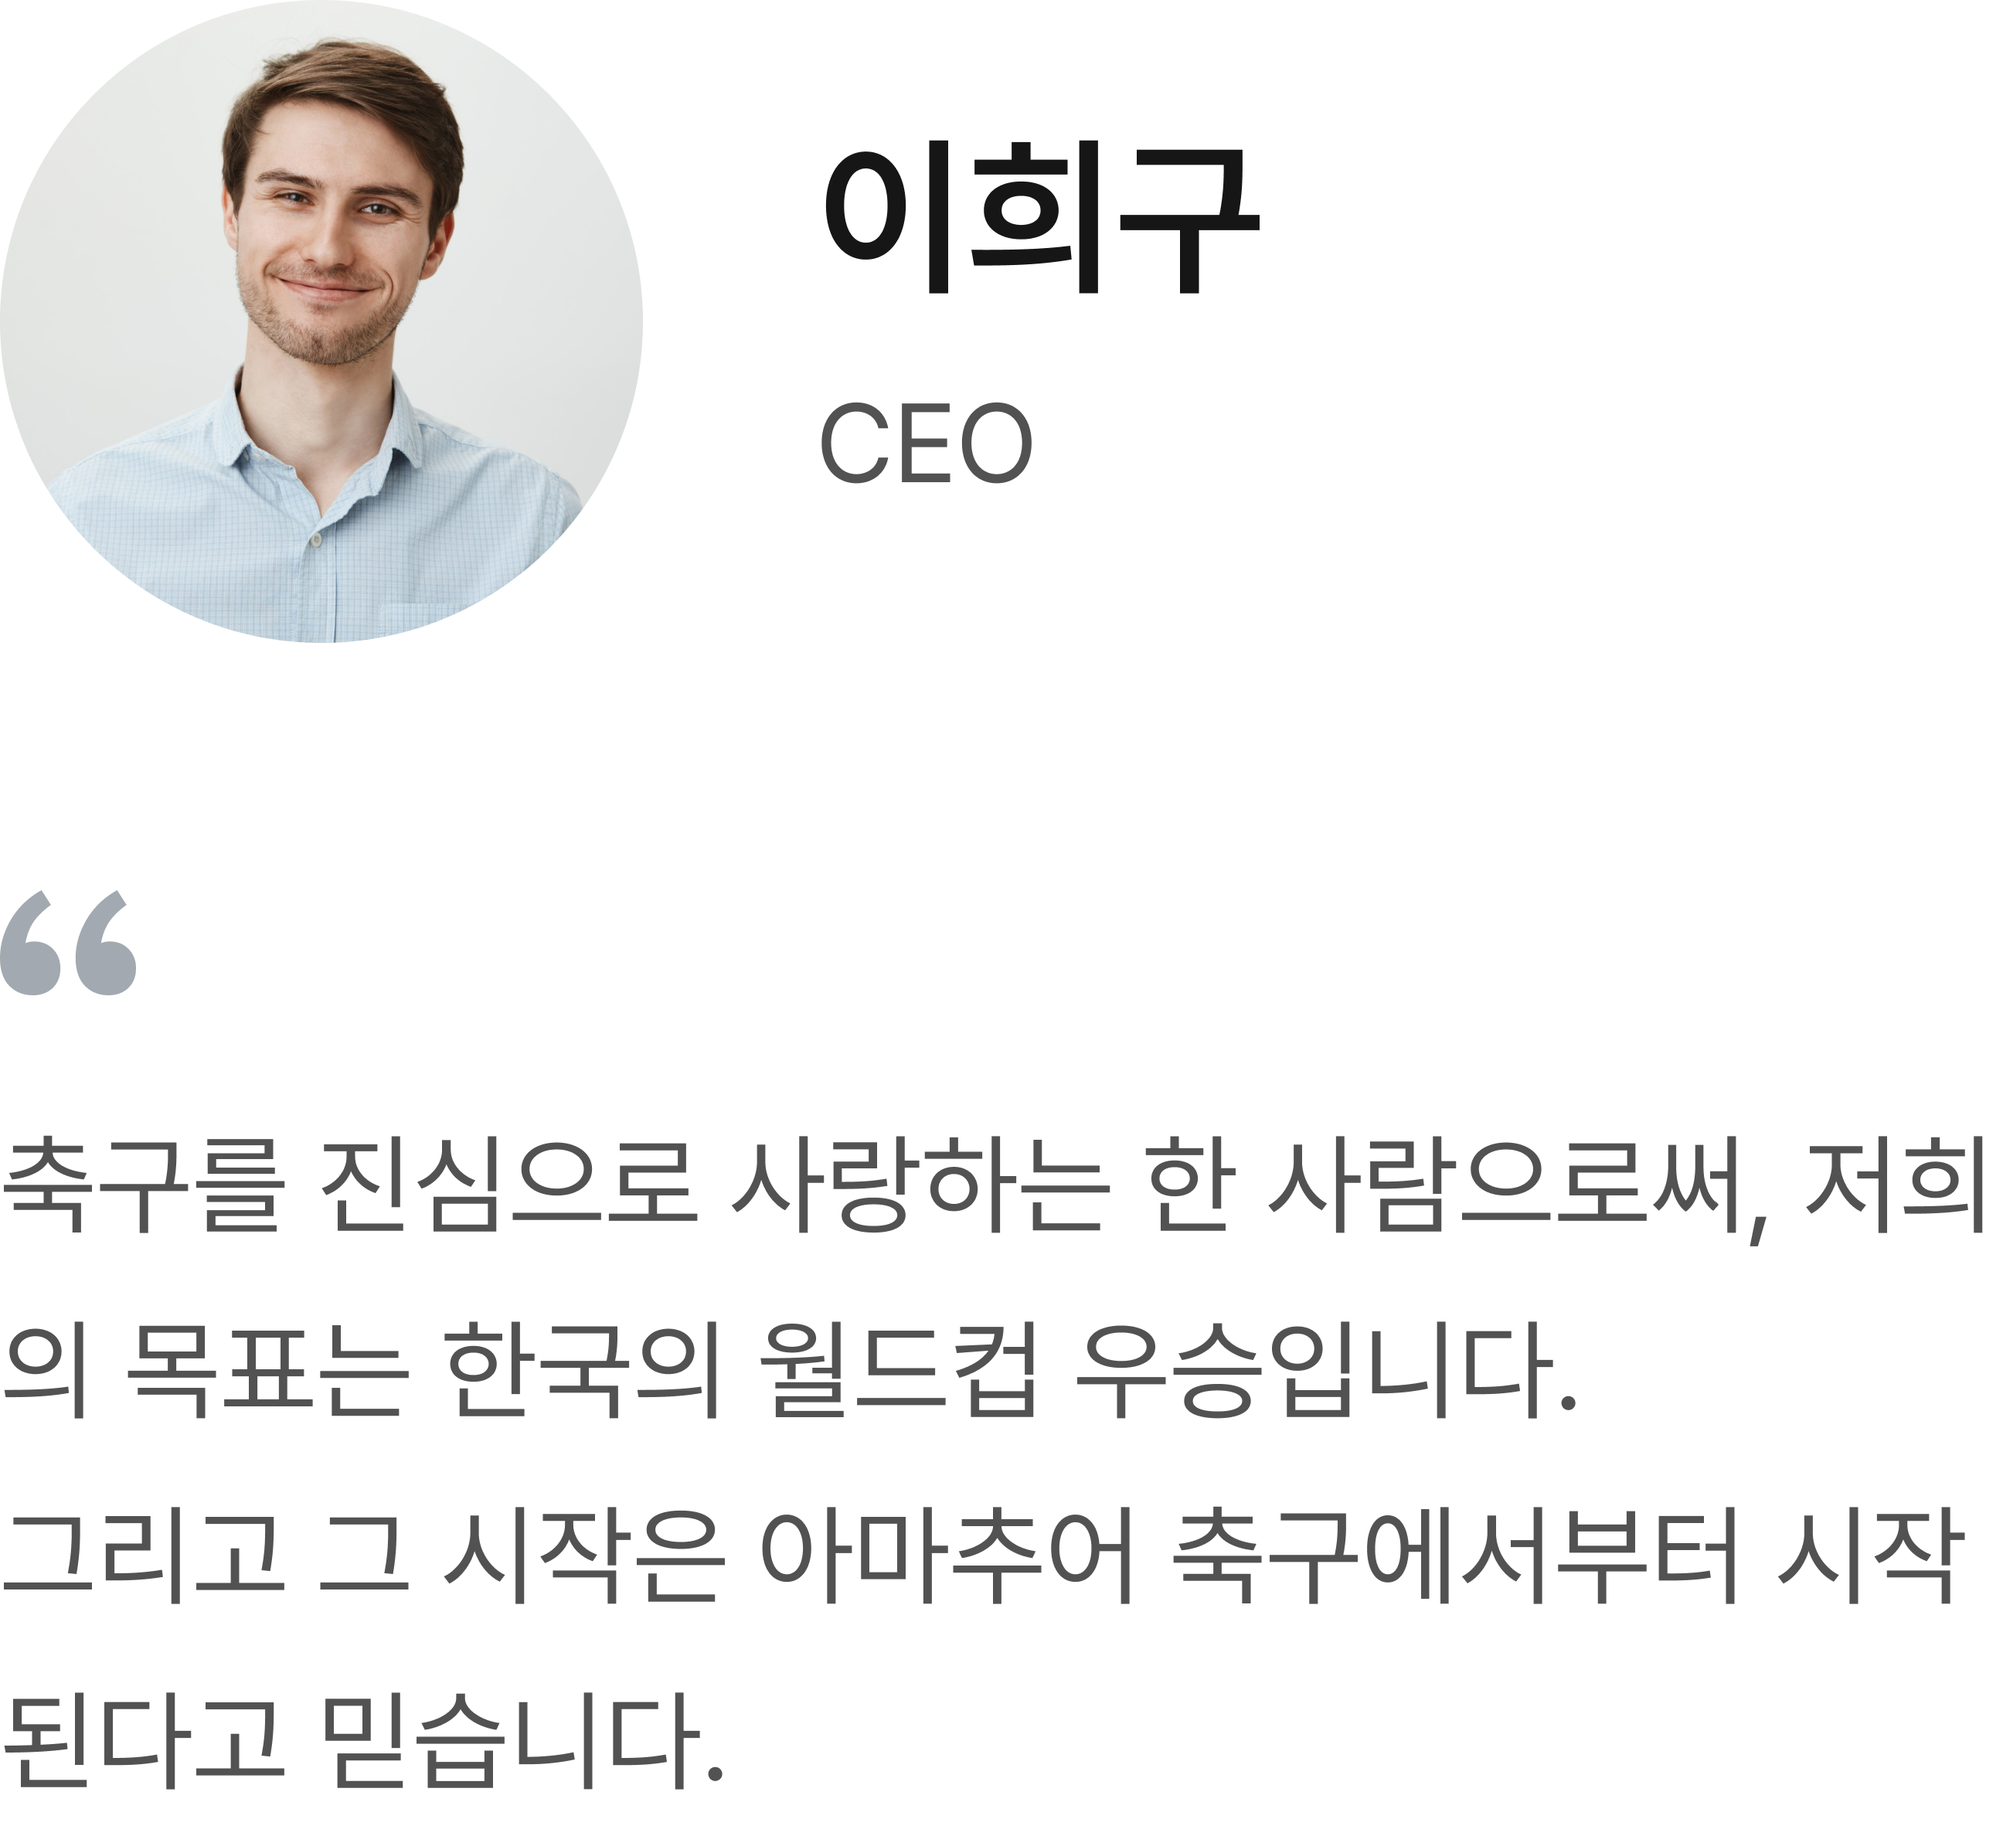
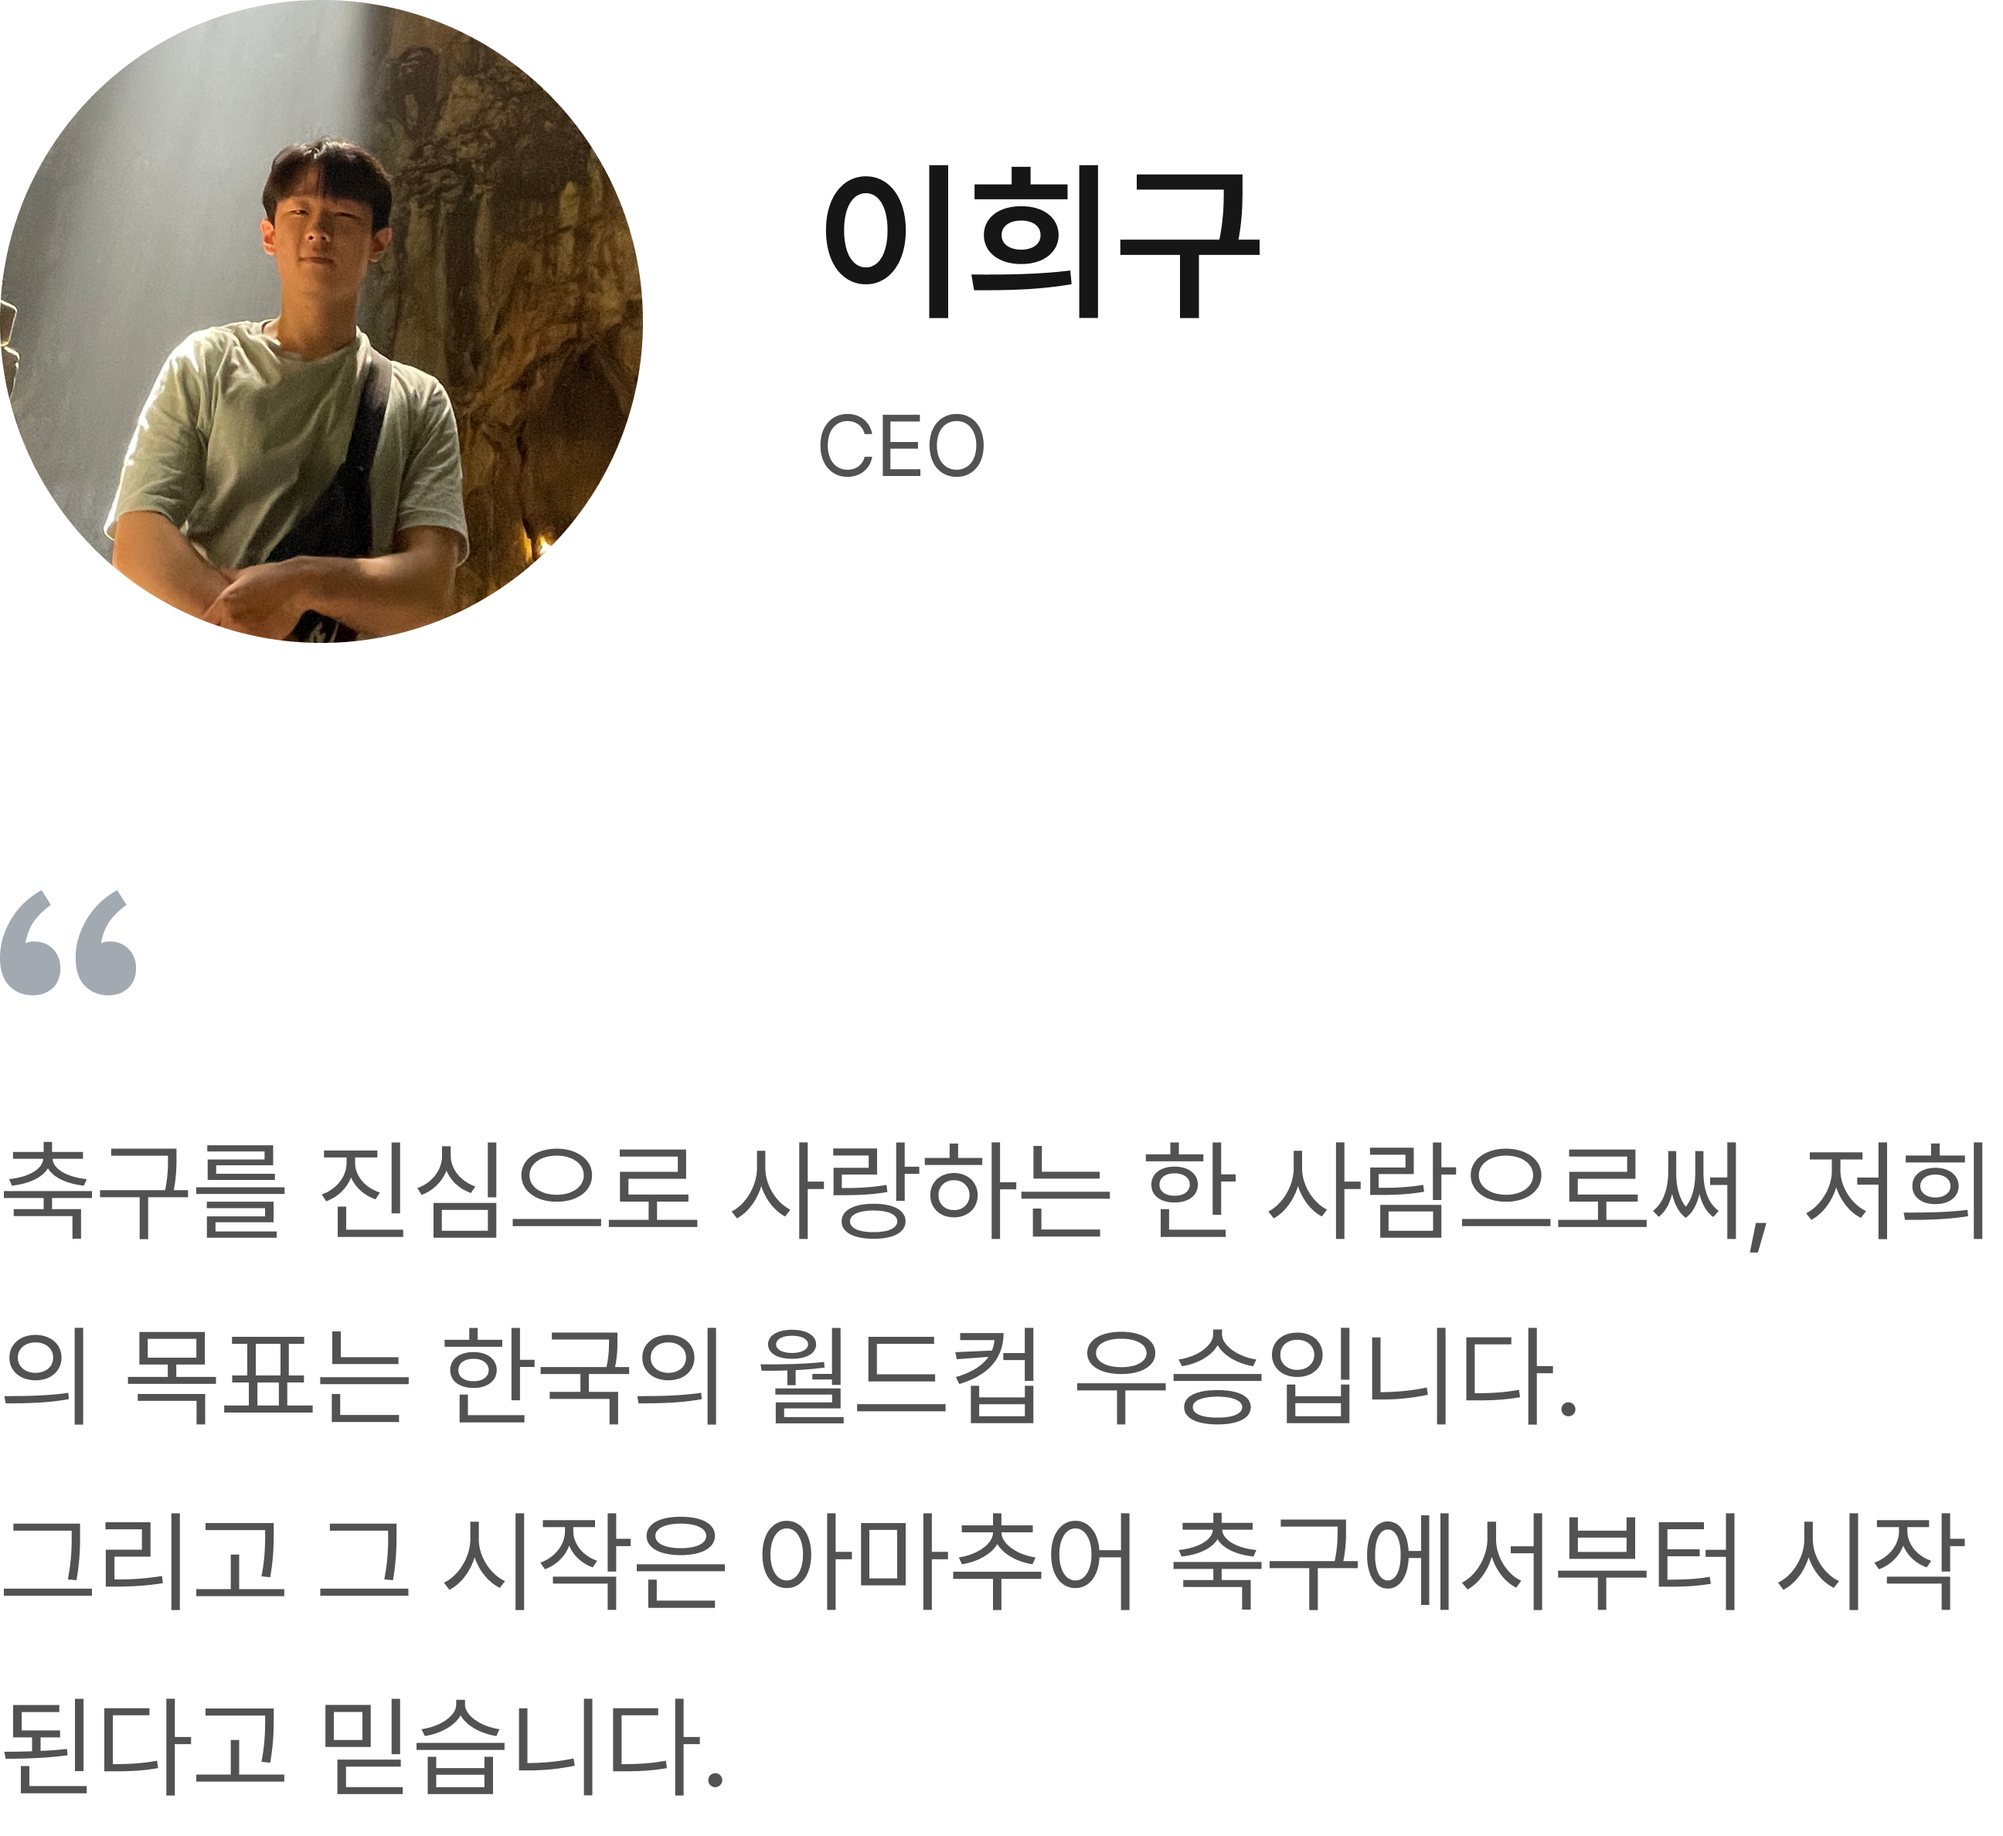
웹페이지 이미지 변경

diff --git a/frontend/agrounds_release/src/components/web/Main.js b/frontend/agrounds_release/src/components/web/Main.js
@@ -2,6 +2,9 @@ import React, {useEffect, useRef, useState} from 'react';
 import section1 from '../../assets/web/section1.png';
 import styled from 'styled-components';
 import section2 from '../../assets/web/section2.png';
+import section3 from '../../assets/web/section3.png';
+import section4 from '../../assets/web/section4.png';
+import section5 from '../../assets/web/section5.png';
 import section7 from '../../assets/web/section7.png';
 import dashjs from 'dashjs';
 
@@ -64,7 +67,7 @@ const Main = () => {
     return (
       <MainStyle>
       <Section1>
-        <div>누구나 이용할 수 있는 제품 <br/>아마추어를 위한 쉽고 합리적인 <br/>제품을 통해 모든 아마추어 선수들의 <br/>성장을 응원하고 돕습니다.</div>
+        <div style={{lineHeight:'2'}}>누구나 이용할 수 있는 제품 <br/>아마추어를 위한 쉽고 합리적인 <br/>제품을 통해 모든 아마추어 선수들의 <br/>성장을 응원하고 돕습니다.</div>
         <img src={section1} />
       </Section1>
       <Section2>
@@ -82,7 +85,7 @@ const Main = () => {
           <p className='contents2'>이후, AI 기술을 활용하여 이 정보를 한층 더 정교하게 요약하고 시각화하여,<br/> 누구나 쉽게 이해하고 활용할 수 있도록 제공합니다. <br/>데이터의 전문성과 소비자의 접근성을 동시에 만족시키는 <br/>혁신적인 분석 솔루션입니다.
           </p>
         </div>
-        <img src={section2} />
+        <img src={section3} />
       </Section3>
       <Section4>
         <div className='info-box'>
@@ -90,7 +93,7 @@ const Main = () => {
           <div className='contents'>무선 충전 기술을 적용해 비와 땀으로부터 안전한 설계를 구현했습니다. <br/>또한 블루투스 연결을 통해 경기 종료 후 데이터를 손쉽게 <br/>전송할 수 있도록 하여 편리함과 실용성을 동시에 제공하고 있습니다.
           </div>
         </div>
-        <img src={section2} />
+        <img src={section4} />
       </Section4>
       <Section5>
         <div className='info-box'>
@@ -99,7 +102,7 @@ const Main = () => {
           <p className='contents2'>이후, AI 기술을 활용하여 이 정보를 한층 더 정교하게 요약하고 시각화하여,<br/> 누구나 쉽게 이해하고 활용할 수 있도록 제공합니다. <br/>데이터의 전문성과 소비자의 접근성을 동시에 만족시키는 <br/>혁신적인 분석 솔루션입니다.
           </p>
         </div>
-        <img src={section2} />
+        <img src={section5} />
       </Section5>
       <Section6M>
         <div className='contents-box'>
@@ -164,10 +167,10 @@ const Main = () => {
           <p className='contents2'>이후, AI 기술을 활용하여 이 정보를 한층 더 정교하게 요약하고 시각화하여,<br/> 누구나 쉽게 이해하고 활용할 수 있도록 제공합니다. <br/>데이터의 전문성과 소비자의 접근성을 동시에 만족시키는 <br/>혁신적인 분석 솔루션입니다.
           </p>
         </div>
-        <img src={section2} />
+        <img src={section3} />
       </Section3>
       <Section4>
-        <img src={section2} />
+        <img src={section4} />
         <div className='info-box'>
           <div className='title'>GPS 기기</div>
           <div className='contents'>무선 충전 기술을 적용해 비와 땀으로부터 안전한 설계를 구현했습니다. <br/>또한 블루투스 연결을 통해 경기 종료 후 데이터를 손쉽게 <br/>전송할 수 있도록 하여 편리함과 실용성을 동시에 제공하고 있습니다.
@@ -181,7 +184,7 @@ const Main = () => {
           <p className='contents2'>이후, AI 기술을 활용하여 이 정보를 한층 더 정교하게 요약하고 시각화하여,<br/> 누구나 쉽게 이해하고 활용할 수 있도록 제공합니다. <br/>데이터의 전문성과 소비자의 접근성을 동시에 만족시키는 <br/>혁신적인 분석 솔루션입니다.
           </p>
         </div>
-        <img src={section2} />
+        <img src={section5} />
       </Section5>
       <Section6>
         <div className='video-type'>

diff --git a/frontend/agrounds_release/src/components/web/CompanyIntroduction.js b/frontend/agrounds_release/src/components/web/CompanyIntroduction.js
@@ -6,6 +6,10 @@ import 'swiper/css';
 import 'swiper/css/navigation'; 
 import { Autoplay, Pagination, Navigation } from "swiper/modules";
 import heegu from '../../assets/web/heegu.png';
+import sowon from '../../assets/web/sowon.png';
+import jayou from '../../assets/web/jayou.png';
+import uichan from '../../assets/web/uichan.png';
+import soyeong from '../../assets/web/soyeong.png';
 import introsecm1 from '../../assets/web/introsecm1.png';
 import introsecm2 from '../../assets/web/introsecm2.png';
 import introsecm3 from '../../assets/web/introsecm3.png';
@@ -15,11 +19,11 @@ import introsecm4 from '../../assets/web/introsecm4.png';
 const CompanyIntroduction = () => {
 
   const teamMembers = [
-    { name: "김소원", position: "Designer", image: heegu },
+    { name: "김소원", position: "Designer", image: sowon },
     { name: "이희구", position: "CEO", image: heegu },
-    { name: "구자유", position: "BE Developer", image: heegu },
-    { name: "안의찬", position: "BE Developer", image: heegu },
-    { name: "문소영", position: "FE Developer", image: heegu },
+    { name: "구자유", position: "BE Developer", image: jayou },
+    { name: "안의찬", position: "BE Developer", image: uichan },
+    { name: "문소영", position: "FE Developer", image: soyeong },
   ];
 
   const [isMobile, setIsMobile] = useState(window.innerWidth <= 480);
@@ -50,6 +54,7 @@ const CompanyIntroduction = () => {
               그리고 그 시작은 아마추어 축구에서부터 시작된다고 믿고 있기 때문에 
               우리는 30만 아마추어 축구인을 위한 전술 분석 플랫폼 AGROUNDS를 서비스하고 있습니다.</div>
         </div>
+        <div style={{marginTop: '5vh'}} />
         <TeamSwiper
         modules={[Autoplay]}
         autoplay={{

diff --git a/frontend/agrounds_release/src/components/web/Service.js b/frontend/agrounds_release/src/components/web/Service.js
@@ -1,6 +1,6 @@
 import React, { useEffect, useState } from 'react';
 import styled from 'styled-components';
-import service from '../../assets/web/service.png';
+import service from '../../assets/web/service-wide.png';
 import servicem1 from '../../assets/web/servicem1.png';
 import servicem2 from '../../assets/web/servicem2.png';
 import servicem3 from '../../assets/web/servicem3.png';

diff --git a/frontend/agrounds_release/src/pages/main/js/PersonalAnalysis.js b/frontend/agrounds_release/src/pages/main/js/PersonalAnalysis.js
@@ -34,7 +34,6 @@ const PersonalAnalysis = () => {
         setSummary(response.data.ai_summation || [])
         setSelectedMatch(initialMatchCode);
         setLoading(false);
-        console.log(response.data.analyze )
       })
       .catch((error) => {
         console.error(error);
